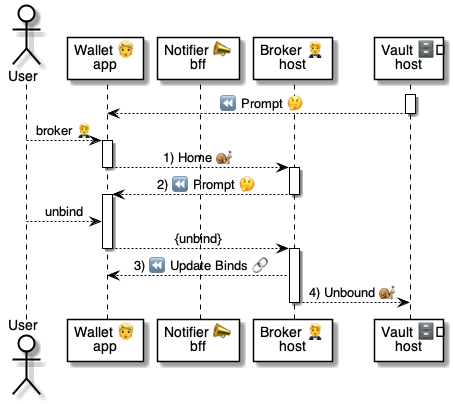
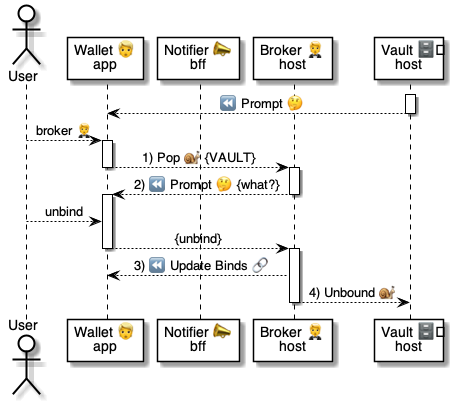
.

Changed region(s): [[0.2781, 0.3564, 0.6181, 0.4752]]

diff --git a/4 ⚙ Solution/20 🧑🦰 UI/Wallets 🧑🦰/🧑🦰💬 Wallet in Vaults 🗄/💬🤵 Unbind 🗄.md b/4 ⚙ Solution/20 🧑🦰 UI/Wallets 🧑🦰/🧑🦰💬 Wallet in Vaults 🗄/💬🤵 Unbind 🗄.md
@@ -33,7 +33,7 @@
 
 | # | Call | Notes
 |-|-|-
-| 1 | [🧑🦰🐌🤗 `Home@Host`](<../../../41 🎭 Domain Roles/Hosts 🤗/🤗🅰 Host methods/🤵🐌🤗 Home.md>) | Call the [Broker 🤵](<../../Brokers 🤵/🤵🤲 Broker helper.md>) in a [Chat 💬](<../../../35 💬 Chats/💬 Chats/💬 Chat.md>)  with a [Host 🤗](<../../../41 🎭 Domain Roles/Hosts 🤗/🤗🎭 Host role.md>) 
+| 1 | [🧑🦰🐌🤵 `Pop@Broker`](<../../Brokers 🤵/🤵🅰 Broker methods/3 🤵🅰 Chats 💬/🧑🦰🐌🤵 Pop.md>) | Call the [Broker 🤵](<../../Brokers 🤵/🤵🤲 Broker helper.md>) in a [Chat 💬](<../../../35 💬 Chats/💬 Chats/💬 Chat.md>)  with a [Host 🤗](<../../../41 🎭 Domain Roles/Hosts 🤗/🤗🎭 Host role.md>) 
 | 2 | [🤗⏩🧑🦰 `Prompt@Host`](<../../../41 🎭 Domain Roles/Hosts 🤗/🤗⏩ Host flows/🤗⏩🧑🦰 Prompt 🤔.md>) | Ask the [Broker 🤵](<../../Brokers 🤵/🤵🤲 Broker helper.md>) to remove the  [Bind 🔗](<../../../30 🧩 Data/Binds 🔗/🔗 Bind.md>)
 | 3 | [🤵⏩🧑🦰 Update Binds 🔗](<../../Brokers 🤵/🤵⏩ Broker flows/🤵⏩🧑🦰 Update Binds 🔗.md>) | Asks the [Wallet 🧑🦰](<../🧑🦰🛠 Wallet app.md>) to update the [Binds 🔗](<../../../30 🧩 Data/Binds 🔗/🔗 Bind.md>)
 | 4 | [🤵🐌🗄 `Unbound@Vault`](<../../../41 🎭 Domain Roles/Vaults 🗄/🗄🅰 Vault methods/to Bind/🤵🐌🗄 Unbound.md>) | The [Broker 🤵](<../../Brokers 🤵/🤵🤲 Broker helper.md>) unbinds and informs the [Vault 🗄](<../../../41 🎭 Domain Roles/Vaults 🗄/🗄🎭 Vault role.md>)

diff --git a/4 ⚙ Solution/20 🧑🦰 UI/Wallets 🧑🦰/🧑🦰💬 Wallet in Tokens 🎫/💬🤵 Remove 🎫.md b/4 ⚙ Solution/20 🧑🦰 UI/Wallets 🧑🦰/🧑🦰💬 Wallet in Tokens 🎫/💬🤵 Remove 🎫.md
@@ -33,7 +33,7 @@
 
 | # | API | Description
 |-|-|-
-| 1 | [🧑🦰🐌🤗 `Home@Host`](<../../../41 🎭 Domain Roles/Hosts 🤗/🤗🅰 Host methods/🤵🐌🤗 Home.md>) | The user calls the [Broker 🤵](<../../Brokers 🤵/🤵🤲 Broker helper.md>) from the [Token 🎫](<../../../30 🧩 Data/Tokens 🎫/🎫 Token.md>)
+| 1 | [🧑🦰🐌🤵 `Pop@Broker`](<../../Brokers 🤵/🤵🅰 Broker methods/3 🤵🅰 Chats 💬/🧑🦰🐌🤵 Pop.md>)  | The user calls the [Broker 🤵](<../../Brokers 🤵/🤵🤲 Broker helper.md>) from the [Token 🎫](<../../../30 🧩 Data/Tokens 🎫/🎫 Token.md>)
 | 2 | [🤗⏩🧑🦰 Prompt 🤔](<../../../41 🎭 Domain Roles/Hosts 🤗/🤗⏩ Host flows/🤗⏩🧑🦰 Prompt 🤔.md>) | Then tells the [Broker 🤵](<../../Brokers 🤵/🤵🤲 Broker helper.md>) to remove the [Token 🎫](<../../../30 🧩 Data/Tokens 🎫/🎫 Token.md>) 
 | 3 | [🤵⏩🧑🦰 Update Tokens 🎫](<../../Brokers 🤵/🤵⏩ Broker flows/🤵⏩🧑🦰 Update Tokens 🎫.md>) | The [Broker 🤵](<../../Brokers 🤵/🤵🤲 Broker helper.md>) tells the [Wallet 🧑🦰](<../🧑🦰🛠 Wallet app.md>) to update the list
 | 4 | [🤵🐌📣 `Remove@Notifier`](<../../Notifiers 📣/📣🅰 Notifier methods/4 🎫 Tokens/3 🤵🐌📣 Remove.md>) | The [Broker 🤵](<../../Brokers 🤵/🤵🤲 Broker helper.md>) tells the [Wallet 🧑🦰](<../🧑🦰🛠 Wallet app.md>) to remove it

diff --git a/4 ⚙ Solution/20 🧑🦰 UI/Brokers 🤵/🤵🔆 Broker locators/🤵🔆 Pop Vault.md b/4 ⚙ Solution/20 🧑🦰 UI/Brokers 🤵/🤵🔆 Broker locators/🤵🔆 Pop Vault.md
@@ -8,6 +8,8 @@
 
 
 ```yaml
+# Assumes a $wallet placeholder.
+
 💬 [Unbind] Vault:
 
 # Get the Vault 
@@ -42,3 +44,11 @@
 # Inform the user 🤔
 - SUCCESS|Done.
 ```
+
+| [Command ⌘](<../../../35 💬 Chats/😃 Talkers/😃⚙ Talker cmds/for control/⌘ Command.md>) | Purpose
+|-|-
+| 📨 [`$.Msg`](<../../../35 💬 Chats/😃 Talkers/😃⚙ Talker cmds/for handlers/$.Msg 📨.md>) | Read the incoming [Message 📨](<../../../30 🧩 Data/Messages 📨/📨 Message.md>)
+| ⏬ [`GET`](<../../../35 💬 Chats/😃 Talkers/😃⚙ Talker cmds/for data/GET ⏬ item.md>) | Get the [Hook 🪝](<../../../35 💬 Chats/😃 Talkers/😃🪣 Talker tables/😃🪣 Hooks 🪝.md>) from [`Bindable@Broker`](<../🤵🅰 Broker methods/4 🤵🅰 Binds 🔗/🗄🐌🤵 Bindable.md>)  
+| *⃣ [`PARALLEL`](<../../../35 💬 Chats/😃 Talkers/😃⚙ Talker cmds/for control/PARALLEL *⃣.md>) | Process each [Bind 🔗](<../../../30 🧩 Data/Binds 🔗/🔗 Bind.md>)
+| 🔐 [`VERIFY`](<../../../35 💬 Chats/😃 Talkers/😃⚙ Talker cmds/for handlers/VERIFY 🔐 msg.md>) | Verify the domain [Signature 🔏](<../../../30 🧩 Data/Messages 📨/📨⏩ Message flows/Signatures 🔏.md>) of the [Message 📨](<../../../30 🧩 Data/Messages 📨/📨 Message.md>)
+|

diff --git a/4 ⚙ Solution/41 🎭 Domain Roles/Hosts 🤗/🤗🅰 Host methods/🤵🐌🤗 Hello.md b/4 ⚙ Solution/41 🎭 Domain Roles/Hosts 🤗/🤗🅰 Host methods/🤵🐌🤗 Hello.md
@@ -58,7 +58,7 @@ Body:
 
 ```yaml
 # Check if the Broker is trustworthy
-- TRUST: $.Msg.From
+- TRUSTS: $.Msg.From
     Schema: .HOST/HELLO
 
 # Save the data
@@ -78,5 +78,5 @@ Body:
 | 📨 [`$.Msg`](<../../../35 💬 Chats/😃 Talkers/😃⚙ Talker cmds/for handlers/$.Msg 📨.md>) | Read the incoming [Message 📨](<../../../30 🧩 Data/Messages 📨/📨 Message.md>)
 | 💾 [`SAVE`](<../../../35 💬 Chats/😃 Talkers/😃⚙ Talker cmds/for data/SAVE 💾 item.md>) | Save the [Message 📨](<../../../30 🧩 Data/Messages 📨/📨 Message.md>) into the [Chats 🪣 table](<../🤗🪣 Host tables/🤗🪣 Chats 💬.md>)
 | 😃 [`TALK`](<../../../35 💬 Chats/😃 Talkers/😃⚙ Talker cmds/for handlers/TALK 😃.md>) | Start a [Talker 😃](<../../../35 💬 Chats/😃 Talkers/😃 Talker.md>)
-| 🫡 [`TRUSTS`](<../../../35 💬 Chats/😃 Talkers/😃⚙ Talker cmds/for handlers/TRUSTS 🫡.md>) | Assert a [Trust 🫡](<../../../30 🧩 Data/Trusts 🫡/🫡 Domain Trust.md>) between [domains 👥](<../../../40 👥 Domains/👥 Domain.md>)
+| 🫡 [`TRUSTS`](<../../../35 💬 Chats/😃 Talkers/😃⚙ Talker cmds/for handlers/TRUSTS 🫡.md>) | Assert a [Trust 🫡](<../../../30 🧩 Data/Trusts 🫡/🫡 Domain Trust.md>) on 
 |

diff --git a/4 ⚙ Solution/35 💬 Chats/😃 Talkers/😃⚙ Talker cmds/for handlers/TRUSTS 🫡.md b/4 ⚙ Solution/35 💬 Chats/😃 Talkers/😃⚙ Talker cmds/for handlers/TRUSTS 🫡.md
@@ -75,8 +75,8 @@
     | [Command ⌘](<../for control/⌘ Command.md>) | Purpose
     |-|-
     | 📨 [`$.Msg`](<$.Msg 📨.md>) | Read the incoming [Message 📨](<../../../../30 🧩 Data/Messages 📨/📨 Message.md>)
-    | 🎛 [`$.Settings`](<$.Settings 🎛.md>) | Get the default [Graph 🕸 domain](<../🕸🤲 Graph helper.md>)
-    | 🚦 [`ASSERT`](<../../../35 💬 Chats/😃 Talkers/😃⚙ Talker cmds/for handlers/ASSERT 🚦.md>) | Assert if it's [Trusted 🫡](<../../../../30 🧩 Data/Trusts 🫡/🫡 Domain Trust.md>) 
+    | 🎛 [`$.Settings`](<$.Settings 🎛.md>) | Get the default [Graph 🕸 domain](<../../../../45 🤲 Helper domains/Graphs 🕸/🕸🤲 Graph helper.md>)
+    | 🚦 [`ASSERT`](<ASSERT 🚦.md>) | Assert if it's [Trusted 🫡](<../../../../30 🧩 Data/Trusts 🫡/🫡 Domain Trust.md>) 
     | ⤵ [`IF`](<../for control/IF ⤵.md>) | Verify the parameters  
     | 📬 [`SEND`](<../../../../35 💬 Chats/😃 Talkers/😃⚙ Talker cmds/for flows/.SEND 📬 msg.md>) | Call [👥🚀🕸 `Trusts@Graph`](<../../../../45 🤲 Helper domains/Graphs 🕸/🕸🅰 Graph methods/👥🚀🕸 Trusts.md>)
     |

diff --git a/4 ⚙ Solution/41 🎭 Domain Roles/Hosts 🤗/🤗🧩 Host schemas/🧩 HOST'BOOKING'SELF.md b/4 ⚙ Solution/41 🎭 Domain Roles/Hosts 🤗/🤗🧩 Host schemas/🧩 HOST'BOOKING'SELF.md
@@ -1,7 +1,8 @@
 
-# [🧩](<../../../30 🧩 Data/Codes 🧩/🧩 Schema Code.md>) [Schema Code](<../../../30 🧩 Data/Codes 🧩/🧩 Schema Code.md>): HostBookingSelf
+# [🧩](<../../../30 🧩 Data/Codes 🧩/🧩 Schema Code.md>) [`HOST`](<🧩 HOST.md>)/[`BOOKING`](<🧩 HOST'BOOKING.md>)/`SELF`
 
-> Brokers only share these credentials with the issuers - i.e. if there’s a booking for a medical appointment and a restaurant, the user is only asked to share the restaurant booking when checking into the restaurant (not the medical appointment).
+Brokers only share these credentials with the issuers;
+  * i.e. if there’s a booking for a medical appointment and a restaurant, the user is only asked to share the restaurant booking when checking into the restaurant (not the medical appointment).
 
 <br/>
 

diff --git a/4 ⚙ Solution/20 🧑🦰 UI/Brokers 🤵/🤵🅰 Broker methods/3 🤵🅰 Chats 💬/🧑🦰🐌🤵 Pop.md b/4 ⚙ Solution/20 🧑🦰 UI/Brokers 🤵/🤵🅰 Broker methods/3 🤵🅰 Chats 💬/🧑🦰🐌🤵 Pop.md
@@ -47,8 +47,21 @@ Body:
 ## Handler
 
 ```yaml
+# Get the Wallet 🧑🦰
+- GET|Wallets|$.Msg.Header.From >> $wallet
+
+# Verify the Message.
+- VERIFY|$.Msg|$wallet.PublicKey
+
+# Handle the context.
 - CASE|$.Msg.Body.Context:
     TOKEN: TALK|PopToken
     VAULT: TALK|PopVault
     BIND : TALK|PopBind
 ```
+
+|Talkers | Details
+|-|-
+| [`PopToken 🔆`](<../../🤵🔆 Broker locators/🤵🔆 Pop Token.md>) | Implements [🧑🦰💬🤵 Remove Token 🎫](<../../Wallets 🧑🦰/🧑🦰💬 Wallet in Tokens 🎫/💬🤵 Remove 🎫.md>)
+| [`PopVault 🔆`](<../../🤵🔆 Broker locators/🤵🔆 Pop Vault.md>) | Implements [🧑🦰💬🤵 Unbind Vault](<../../Wallets 🧑🦰/🧑🦰💬 Wallet in Vaults 🗄/💬🤵 Unbind 🗄.md>)
+|

diff --git a/4 ⚙ Solution/41 🎭 Domain Roles/Hosts 🤗/🤗🧩 Host schemas/🧩 HOST'HELLO.md b/4 ⚙ Solution/41 🎭 Domain Roles/Hosts 🤗/🤗🧩 Host schemas/🧩 HOST'HELLO.md
@@ -1,0 +1,20 @@
+
+# [🧩](<../../../30 🧩 Data/Codes 🧩/🧩 Schema Code.md>) [`HOST`](<🧩 HOST.md>)/`ADMIN`
+
+> Inherits from [`nlweb.dom/LOCATOR` 🧩](<../../../../7 🧩 Codes/$/🧩 LOCATOR code.md>)
+
+* Used by [`Hello@Host`](<../🤗🅰 Host methods/🤵🐌🤗 Hello.md>) 
+  * to verify if a [Broker 🤵](<../../../20 🧑🦰 UI/Brokers 🤵/🤵🤲 Broker helper.md>) 
+  * is certified by `nlweb.dom`.
+
+<br/>
+
+<br/>
+
+## Definition
+
+> 🤝: [`.MANIFEST/CODE`](<../../../30 🧩 Data/Manifests 📜/🧩 Manifest schemas/🧩 CODE.md>)
+
+```yaml
+Path: /HOST/HELLO
+Description: Trusted Broker on Host@Hello

diff --git a/4 ⚙ Solution/41 🎭 Domain Roles/Hosts 🤗/🤗🧩 Host schemas/🧩 HOST'ADMIN.md b/4 ⚙ Solution/41 🎭 Domain Roles/Hosts 🤗/🤗🧩 Host schemas/🧩 HOST'ADMIN.md
@@ -1,5 +1,5 @@
 
-# [🧩](<../../../30 🧩 Data/Codes 🧩/🧩 Schema Code.md>) [Schema Code](<../../../30 🧩 Data/Codes 🧩/🧩 Schema Code.md>): HostAdmin
+# [🧩](<../../../30 🧩 Data/Codes 🧩/🧩 Schema Code.md>) [`HOST`](<🧩 HOST.md>)/`ADMIN`
 
 <br/>
 
@@ -10,7 +10,6 @@
 ```yaml
 Path: /HOST/ADMIN
 Name: Domain admin
-Description: Share post info.
 
 Translations:
   - Language: pt-br

diff --git a/4 ⚙ Solution/41 🎭 Domain Roles/Hosts 🤗/🤗🧩 Host schemas/🧩 HOST'ORDER'SELF.md b/4 ⚙ Solution/41 🎭 Domain Roles/Hosts 🤗/🤗🧩 Host schemas/🧩 HOST'ORDER'SELF.md
@@ -1,5 +1,7 @@
 
-# [🧩](<../../../30 🧩 Data/Codes 🧩/🧩 Schema Code.md>) [Schema Code](<../../../30 🧩 Data/Codes 🧩/🧩 Schema Code.md>): HostOrderSelf
+
+# [🧩](<../../../30 🧩 Data/Codes 🧩/🧩 Schema Code.md>) [`HOST`](<🧩 HOST.md>)/`ORDER`/`SELF`
+
 
 > Inherits from [`nlweb.dom/TOKEN 🧩`](<../../../30 🧩 Data/Tokens 🎫/🧩 Token schemas/🧩 TOKEN.md>)
 

diff --git a/4 ⚙ Solution/41 🎭 Domain Roles/Hosts 🤗/🤗🧩 Host schemas/🧩 HOST'BOOKING.md b/4 ⚙ Solution/41 🎭 Domain Roles/Hosts 🤗/🤗🧩 Host schemas/🧩 HOST'BOOKING.md
@@ -1,5 +1,5 @@
 
-# [🧩](<../../../30 🧩 Data/Codes 🧩/🧩 Schema Code.md>) [Schema Code](<../../../30 🧩 Data/Codes 🧩/🧩 Schema Code.md>): HostBooking
+# [🧩](<../../../30 🧩 Data/Codes 🧩/🧩 Schema Code.md>) [`HOST`](<🧩 HOST.md>)/`BOOKING`
 
 > Inherits from [`nlweb.dom/TOKEN 🧩`](<../../../30 🧩 Data/Tokens 🎫/🧩 Token schemas/🧩 TOKEN.md>)
 

diff --git a/4 ⚙ Solution/41 🎭 Domain Roles/Hosts 🤗/🤗🧩 Host schemas/🧩 HOST.md b/4 ⚙ Solution/41 🎭 Domain Roles/Hosts 🤗/🤗🧩 Host schemas/🧩 HOST.md
@@ -1,5 +1,5 @@
 
-# [🧩](<../../../30 🧩 Data/Codes 🧩/🧩 Schema Code.md>) [Schema Code](<../../../30 🧩 Data/Codes 🧩/🧩 Schema Code.md>): Host
+# [🧩](<../../../30 🧩 Data/Codes 🧩/🧩 Schema Code.md>) `HOST`
 
 > Inherits from [`nlweb.dom/LOCATOR` 🧩](<../../../../7 🧩 Codes/$/🧩 LOCATOR code.md>)
 
